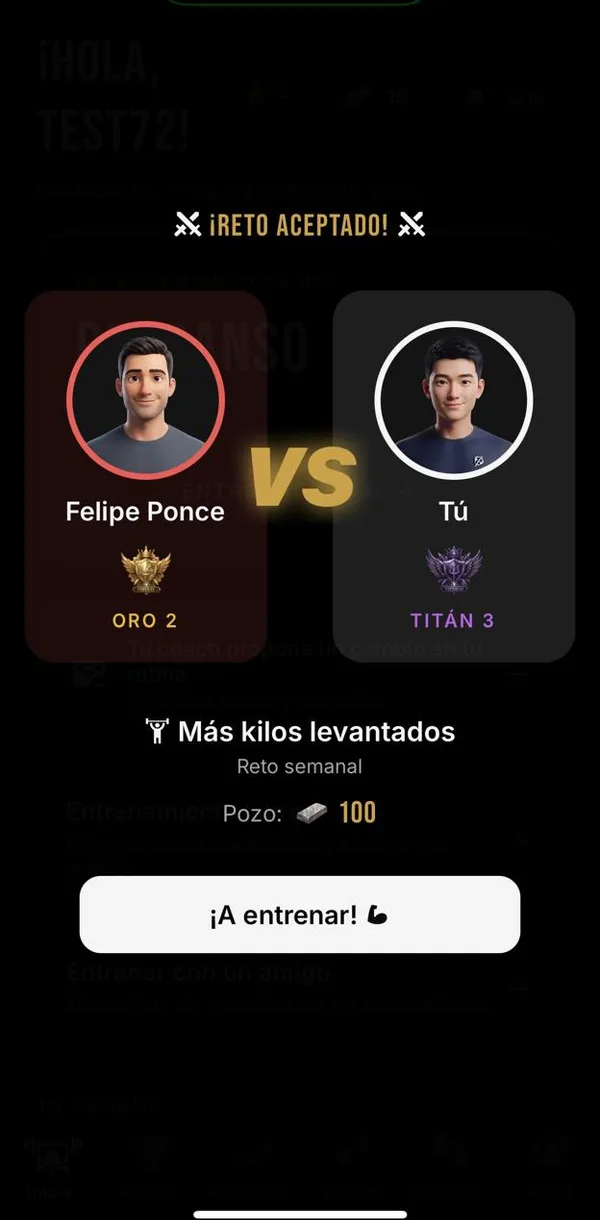
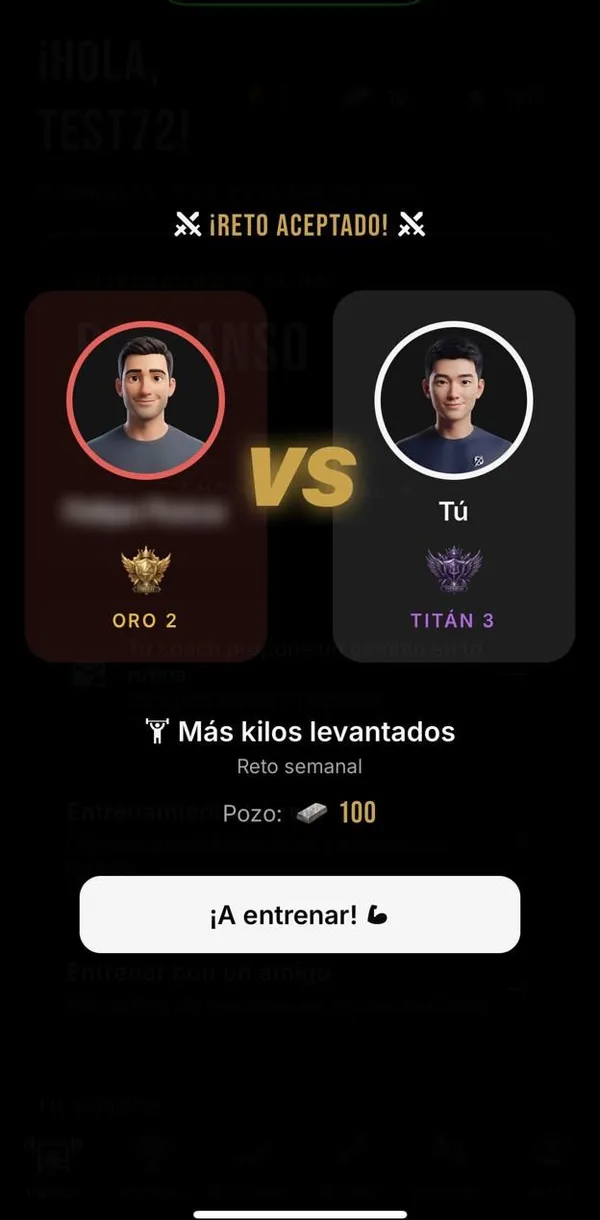
Carrusel continuo sin pausas y nombre difuminado en la captura de Versus

Changed region(s): [[0.09, 0.4049, 0.39, 0.4361]]

diff --git a/public/index.html b/public/index.html
@@ -717,7 +717,7 @@
     if (e.target.tagName === 'A') { menu.classList.remove('open'); btn.setAttribute('aria-expanded', false); }
   });
 
-  // Carrusel de capturas: infinito (las capturas se repiten) y avanza solo hacia la derecha
+  // Carrusel de capturas: se desliza solo y sin pausas hacia la derecha, y las capturas se repiten
   var track = document.getElementById('track');
   var originals = Array.prototype.slice.call(track.children);
   originals.forEach(function (fig) {
@@ -726,52 +726,34 @@
     copy.querySelector('img').alt = '';
     track.appendChild(copy);
   });
+  track.style.scrollSnapType = 'none';
   function stepWidth() { return originals[1].offsetLeft - originals[0].offsetLeft; }
   function setWidth() { return track.children[originals.length].offsetLeft - originals[0].offsetLeft; }
-  // Salta sin animación a la posición equivalente en la otra copia
-  function jump(x) {
-    track.style.scrollSnapType = 'none';
-    track.scrollLeft = x;
-    void track.offsetWidth;
-    track.style.scrollSnapType = '';
-  }
-  function wrap() {
-    var w = setWidth();
-    if (track.scrollLeft >= w) jump(track.scrollLeft - w);
-  }
-  function move(cards) {
-    var step = stepWidth();
-    wrap();
-    if (cards < 0 && track.scrollLeft < -cards * step) jump(track.scrollLeft + setWidth());
-    track.scrollBy({ left: cards * step, behavior: 'smooth' });
-  }
-  document.getElementById('prev').addEventListener('click', function () { move(-2); pause(); });
-  document.getElementById('next').addEventListener('click', function () { move(2); pause(); });
-  var wrapTimer;
-  track.addEventListener('scroll', function () {
-    clearTimeout(wrapTimer);
-    wrapTimer = setTimeout(wrap, 200);
-  }, { passive: true });
-
-  // Avance automático: se detiene mientras el mouse está encima, al tocarlo o si no se ve
-  var carousel = track.parentNode, hovering = false, visible = false, pausedUntil = 0;
-  function pause() { pausedUntil = Date.now() + 6000; }
-  carousel.addEventListener('mouseenter', function () { hovering = true; });
-  carousel.addEventListener('mouseleave', function () { hovering = false; });
-  track.addEventListener('pointerdown', pause);
-  track.addEventListener('touchstart', pause, { passive: true });
-  track.addEventListener('wheel', pause, { passive: true });
-  if ('IntersectionObserver' in window) {
-    new IntersectionObserver(function (entries) { visible = entries[0].isIntersecting; }).observe(track);
-  } else {
-    visible = true;
-  }
   var reduceMotion = window.matchMedia && window.matchMedia('(prefers-reduced-motion: reduce)').matches;
-  if (!reduceMotion) {
-    setInterval(function () {
-      if (visible && !hovering && !document.hidden && Date.now() > pausedUntil) move(1);
-    }, 3000);
+  var SPEED = reduceMotion ? 0 : 45; // px por segundo
+  var pos = 0, lastSet = 0, extra = 0, touching = false, last = null;
+  // Las flechas suman un empujón que se reparte en los cuadros siguientes
+  document.getElementById('prev').addEventListener('click', function () { extra -= 2 * stepWidth(); });
+  document.getElementById('next').addEventListener('click', function () { extra += 2 * stepWidth(); });
+  track.addEventListener('touchstart', function () { touching = true; }, { passive: true });
+  track.addEventListener('touchend', function () { touching = false; }, { passive: true });
+  function frame(t) {
+    var dt = last === null ? 0 : Math.min((t - last) / 1000, 0.1);
+    last = t;
+    // Si la persona movió el carrusel con el dedo o el trackpad, sigue desde ahí
+    if (Math.abs(track.scrollLeft - lastSet) > 2) pos = track.scrollLeft;
+    if (!touching) {
+      var push = extra * Math.min(dt * 6, 1);
+      extra -= push;
+      pos += SPEED * dt + push;
+      var w = setWidth();
+      if (w > 0) pos = ((pos % w) + w) % w;
+      track.scrollLeft = pos;
+    }
+    lastSet = track.scrollLeft;
+    requestAnimationFrame(frame);
   }
+  requestAnimationFrame(frame);
 
   // Cifras de la portada: suben desde 0 al aparecer
   var counters = document.querySelectorAll('[data-count]');
